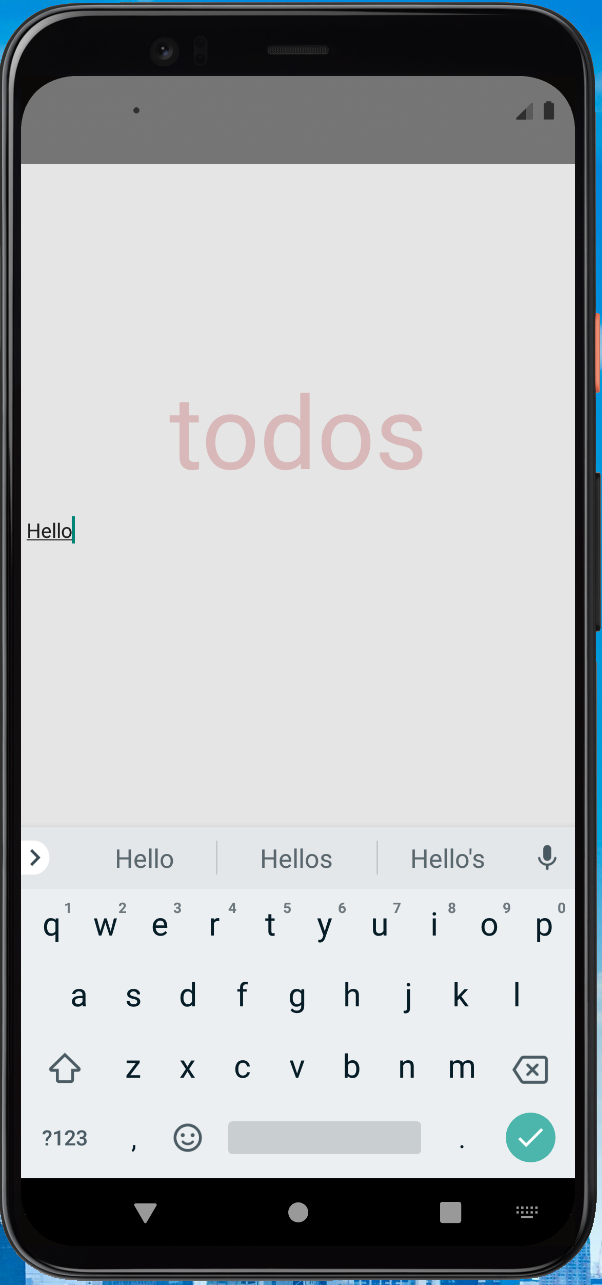
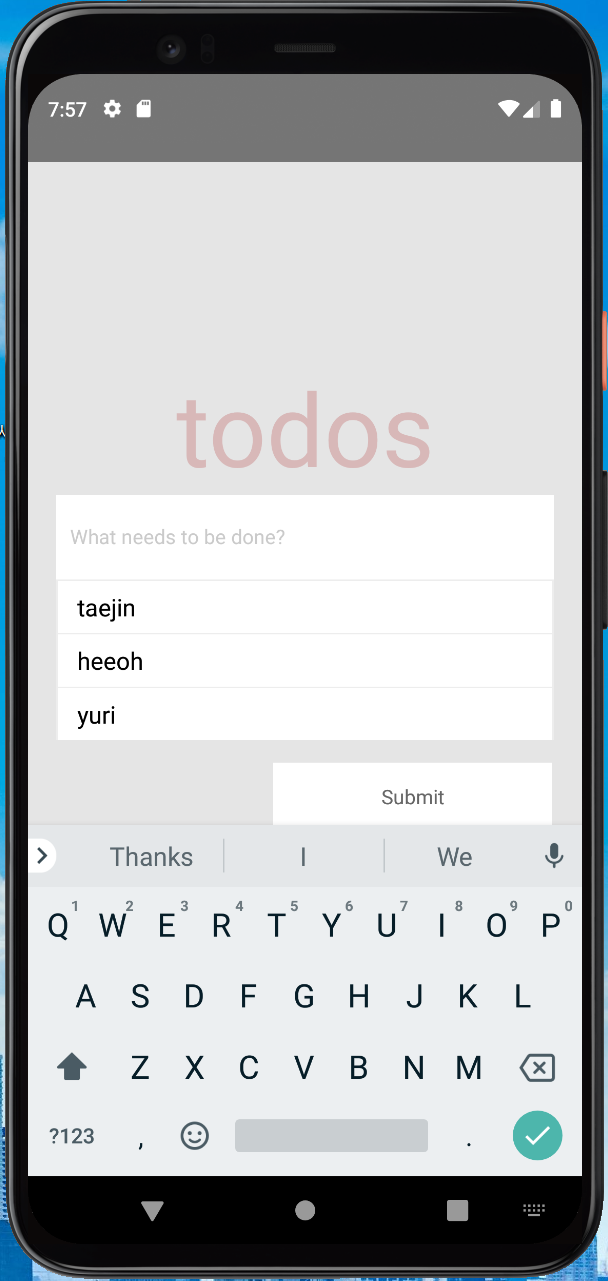
second

diff --git a/todo/App.js b/todo/App.js
@@ -10,6 +10,10 @@ import {
 } from 'react-native';
 import Heading from './app/Heading'
 import Input from './app/TextInput'
+import Button from './app/Button'
+import TodoList from './app/TodoList'
+
+let todoIndex =  0
 
 class App extends Component {
   constructor(){
@@ -19,20 +23,36 @@ class App extends Component {
       todos: [],
       type: 'All'
     }
+    this.submitTodo = this.submitTodo.bind(this)
   }
   inputChange(inputValue) {
     console.log('input value:', inputValue)
     this.setState({inputValue})
 
   }
+  submitTodo () {
+    if (this.state.inputValue.match(/^\s*$/)){
+      return
+    }
+    const todo = {
+      title: this.state.inputValue,
+      todoIndex,
+      complete: false
+    }
+    todoIndex++
+    const todos = [...this.state.todos, todo]
+    this.setState({todos,inputValue:''}, ()=>{console.log('State: ',this.state)})
+  }
   render() {
-    const {inputValue} = this.state
+    let {inputValue, todos} = this.state
     return (
       <View style={styles.container}>
         <ScrollView keyboardShouldPersistTaps='always' style={styles.content}>
           <Heading />
           <Input inputValue={inputValue}
           inputChange={(text)=> this.inputChange(text)} />
+            <TodoList todos={todos} />
+            <Button submitTodo={this.submitTodo} />
         </ScrollView>
       </View>
     )

diff --git a/todo/app/Button.js b/todo/app/Button.js
@@ -1,0 +1,40 @@
+import React from 'react'
+import {View, Text, StyleSheet, TouchableHighlight } from 'react-native'
+
+const Button = ({submitTodo}) => (
+    <View style={styles.buttonContainer}>
+        <TouchableHighlight 
+            underlayColor='#efefef'
+            style={styles.button}
+            onPress={submitTodo}>
+                <Text style={styles.submit}>
+                    Submit
+                </Text>
+        </TouchableHighlight>
+    </View>
+)
+
+const styles = StyleSheet.create({
+    buttonContainer : {
+        alignItems: 'flex-end'
+    },
+    button:{
+        height:50,
+        paddingLeft: 20,
+        paddingRight: 20,
+        backgroundColor: '#ffffff',
+        width: 200,
+        marginRight: 20,
+        marginTop: 15,
+        borderWidth: 1,
+        borderColor: 'rgba(0,0,0,.1)',
+        justifyContent: 'center',
+        alignItems: 'center'
+    },
+    submit: {
+        color: '#666666',
+        fontWeight: '600'
+    }
+})
+
+export default Button

diff --git a/todo/app/Todo.js b/todo/app/Todo.js
@@ -1,0 +1,37 @@
+import React from 'react'
+import {View, Text, StyleSheet} from 'react-native'
+
+const Todo = ({todo}) => (
+    <View style={styles.todoContainer}>
+        <Text style={styles.todoText}>
+            {todo.title}
+        </Text>
+    </View>
+)
+
+const styles = StyleSheet.create({
+    todoContainer: {
+        marginLeft: 20,
+        marginRight: 20,
+        backgroundColor: '#ffffff',
+        borderTopWidth: 1,
+        borderRightWidth: 1,
+        borderLeftWidth:1,
+        borderColor: '#ededed',
+        paddingLeft: 14,
+        paddingTop: 7,
+        paddingBottom: 7,
+        shadowOpacity:0.2,
+        shadowRadius: 3,
+        shadowColor: '#000000',
+        shadowOffset: {sidth:2,height:2},
+        flexDirection: 'row',
+        alignItems: 'center'
+    },
+    todoText: {
+        fontSize: 17
+    }
+})
+
+export default Todo
+

diff --git a/todo/app/TextInput.js b/todo/app/TextInput.js
@@ -2,10 +2,10 @@ import React from 'react'
 import {View, TextInput,StyleSheet} from 'react-native'
 
 const Input = ({inputValue, inputChange}) => (
-    <View style={StyleSheet.inputContainer}>
+    <View style={styles.inputContainer}>
         <TextInput 
         value = {inputValue}
-        style={StyleSheet.input}
+        style={styles.input}
         placeholder='What needs to be done?'
         placeholderTextColor='#CACACA'
         selectionColor='#666666'

diff --git a/todo/app/TodoList.js b/todo/app/TodoList.js
@@ -1,0 +1,19 @@
+import React from 'react'
+import {View} from 'react-native'
+import Todo from './Todo'
+
+const TodoList = ({todos}) => {
+    todos = todos.map((todo,index) => {
+        return (
+            <Todo key={todo.todoIndex} todo={todo} />
+        )
+    })
+    return (
+        <View>
+            {todos}
+        </View>    
+    )
+}
+
+export default TodoList
+
